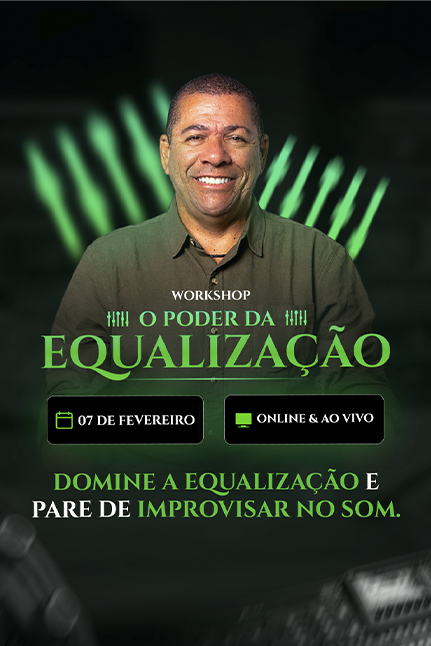
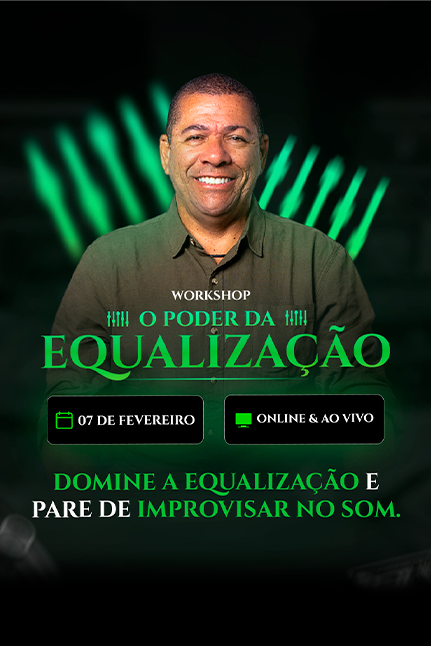
Atualiza carrosseis de slides

diff --git a/index.html b/index.html
@@ -113,6 +113,13 @@
               <img src="assets/slides/slide-03.png" alt="Slide 3" />
               <img src="assets/slides/slide-04.png" alt="Slide 4" />
               <img src="assets/slides/slide-05.png" alt="Slide 5" />
+              <img src="assets/slides/slide-06.png" alt="Slide 6" />
+              <img src="assets/slides/slide-07.png" alt="Slide 7" />
+              <img src="assets/slides/slide-08.png" alt="Slide 8" />
+              <img src="assets/slides/slide-09.png" alt="Slide 9" />
+              <img src="assets/slides/slide-10.png" alt="Slide 10" />
+              <img src="assets/slides/slide-11.png" alt="Slide 11" />
+              <img src="assets/slides/slide-12.png" alt="Slide 12" />
             </div>
           </div>
         </div>
@@ -122,7 +129,7 @@
           <button class="marquee-btn next" aria-label="Próximo slide">›</button>
           <div class="marquee-scroll-container">
             <div class="slide-track reverse">
-              <img src="assets/slides/slide-01.png" alt="Slide 1" />
+              <img src="assets/slides/duonn-atrium-20-review.jpg" alt="Review completo Duonn Atrium 20" />
               <img src="assets/slides/slide-02.png" alt="Slide 2" />
               <img src="assets/slides/slide-03.png" alt="Slide 3" />
               <img src="assets/slides/slide-04.png" alt="Slide 4" />

diff --git a/styles.css b/styles.css
@@ -740,7 +740,7 @@ del {
 
 .slide-marquee.landscape .slide-track img {
   width: min(390px, 50vw);
-  aspect-ratio: 16 / 10;
+  aspect-ratio: 646 / 363;
   object-position: center 25%;
 }
 
